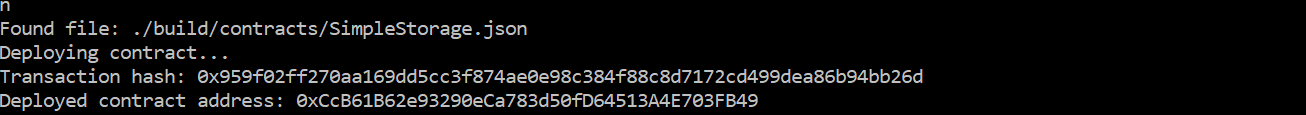
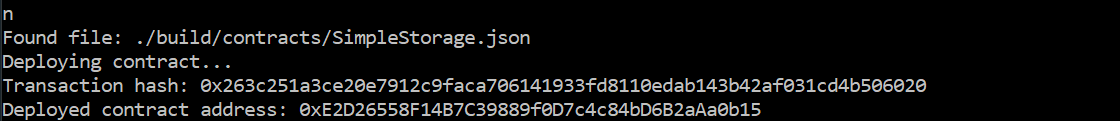
completed task 3

Changed region(s): [[0.0, 0.3913, 0.8438, 0.7826], [0.0, 0.8087, 0.6875, 0.9913], [0.0, 0.0, 0.5, 0.4174]]

diff --git a/3-call/readme.md b/3-call/readme.md
@@ -1,0 +1,37 @@
[1 lines of base64/hex data omitted]
+Deployed contract address: 0xE2D26558F14B7C39889f0D7c4c84bD6B2aAa0b15
+abi:
+[
+    {
+      "inputs": [],
+      "stateMutability": "payable",
+      "type": "constructor"
+    },
+    {
+      "inputs": [
+        {
+          "internalType": "uint256",
+          "name": "x",
+          "type": "uint256"
+        }
+      ],
+      "name": "set",
+      "outputs": [],
+      "stateMutability": "payable",
+      "type": "function"
+    },
+    {
+      "inputs": [],
+      "name": "get",
+      "outputs": [
+        {
+          "internalType": "uint256",
+          "name": "",
+          "type": "uint256"
+        }
+      ],
+      "stateMutability": "view",
+      "type": "function"
+    }
+]
+

diff --git a/2-deploy/readme.md b/2-deploy/readme.md
@@ -1,2 +1,2 @@
-transaction hash: 0x959f02ff270aa169dd5cc3f874ae0e98c384f88c8d7172cd499dea86b94bb26d
-Deployed contract address: 0xCcB61B62e93290eCa783d50fD64513A4E703FB49
+Transaction hash: 0x263c251a3ce20e7912c9faca706141933fd8110edab143b42af031cd4b506020
+Deployed contract address: 0xE2D26558F14B7C39889f0D7c4c84bD6B2aAa0b15
